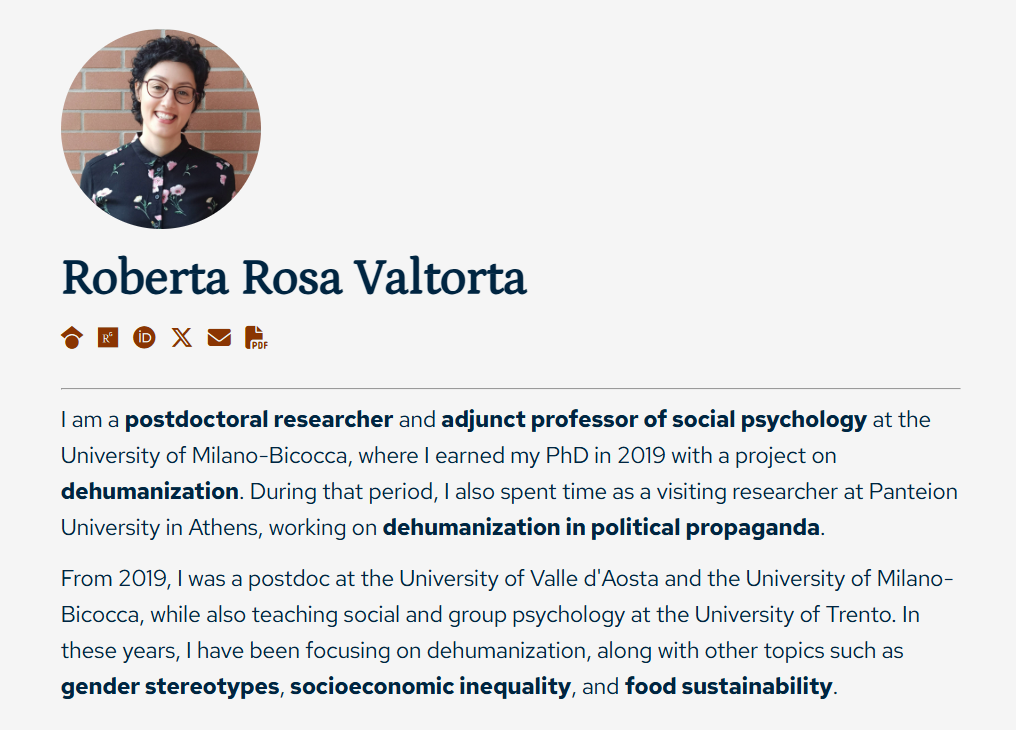
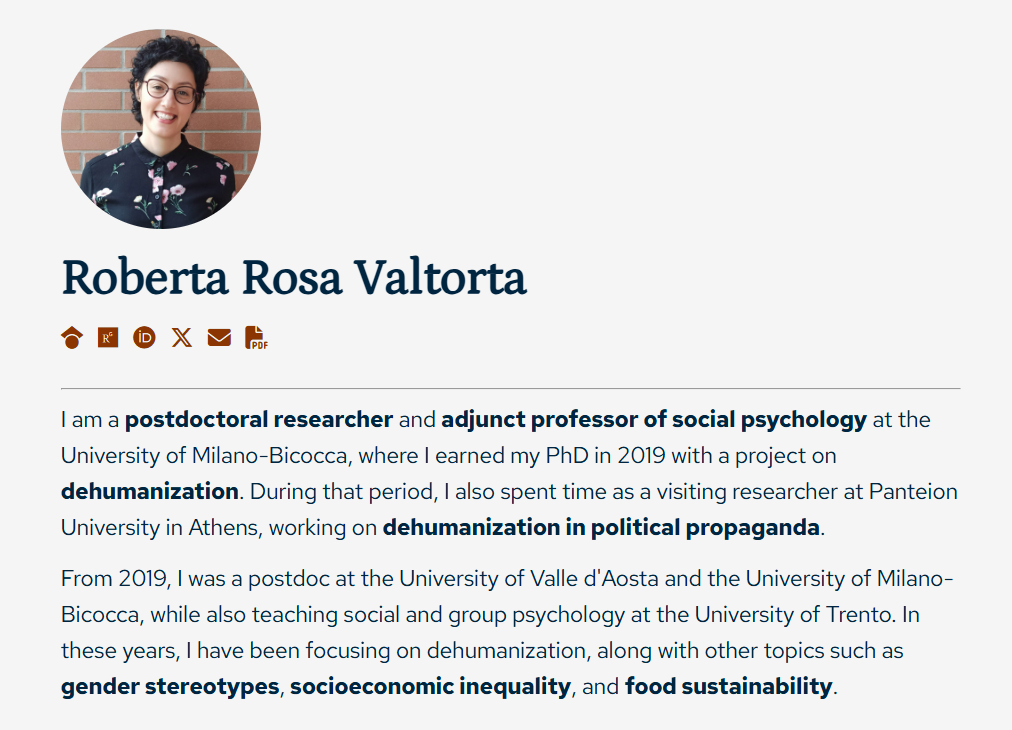
update

diff --git a/content/_index.md b/content/_index.md
@@ -1,7 +1,6 @@
 ---
 title: "Roberta Rosa Valtorta"
 description: "Postdoctoral researcher and adjunct professor of social psychology."
-images: ["preview.png"]
 type: "page"
 layout: profile-mode
 ---
